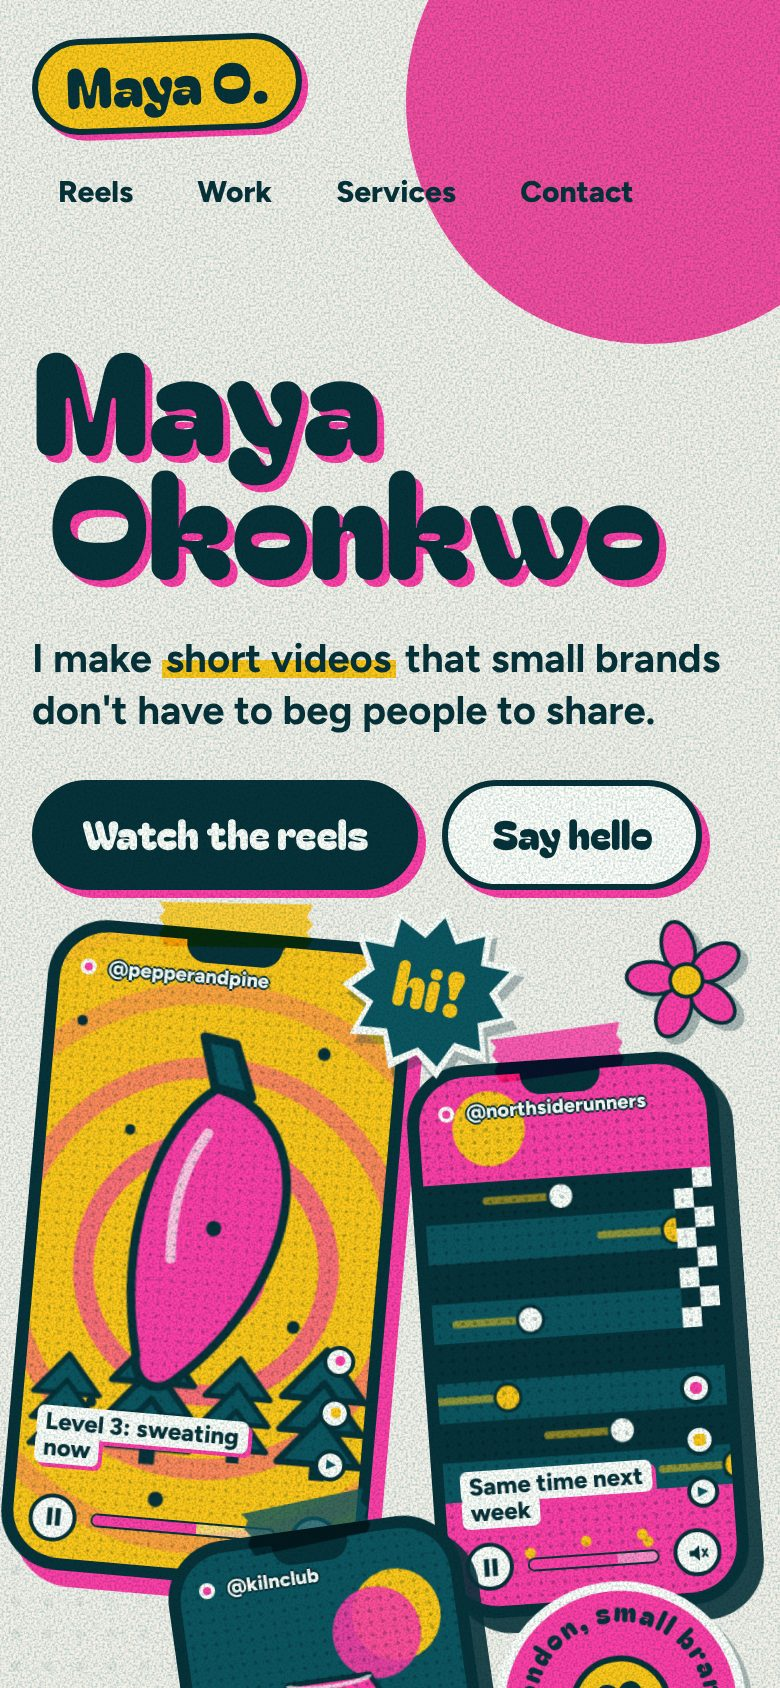
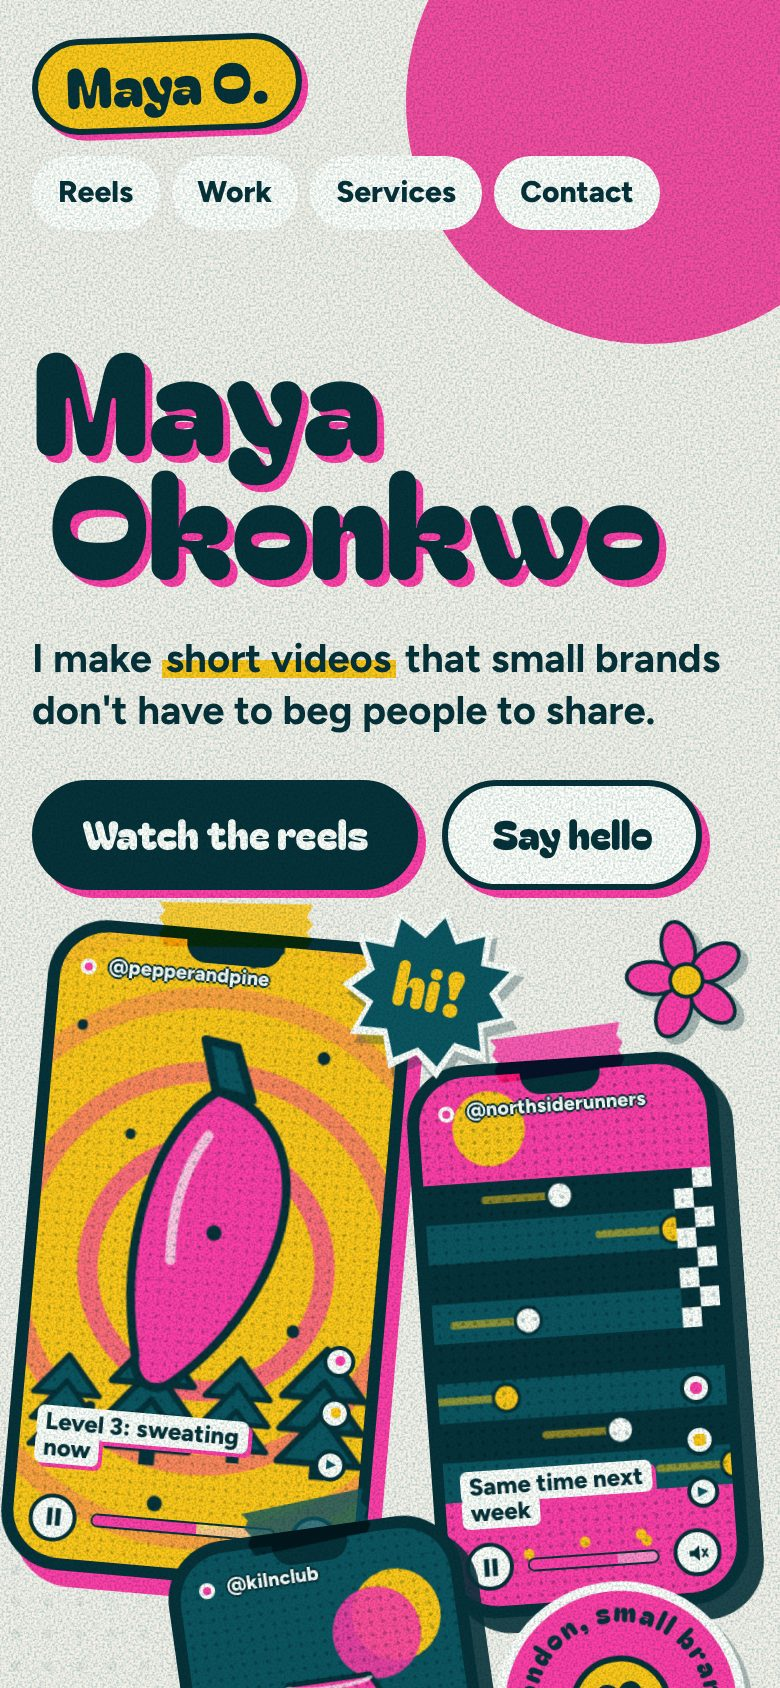
CI: cache the axe browser and retry installs; fix last CSP and contrast issues
- Checks workflow keeps Playwright's Chromium between runs (keyed by its version)
  and retries the browser and system-package installs once, after the install
  step failed on a slow download.
- BaseLayout's js-class script moves to src/scripts/inline/ and is hashed into
  the CSP like the contact intro's gate, so browsers no longer block it.
- Maya concept: nav links on cream pills and a deeper ink on the pink case
  cards, so the page passes colour contrast (0 axe violations). Poster re-shot.

diff --git a/site/public/concepts/maya/index.html b/site/public/concepts/maya/index.html
@@ -44,7 +44,7 @@ h1,h2,h3,h4,p{margin:0}
 .nav{display:flex;align-items:center;justify-content:space-between;gap:12px 24px;flex-wrap:wrap;padding-top:18px;position:relative;z-index:5}
 .logo{font-family:var(--display);font-size:28px;text-decoration:none;line-height:1;padding:6px 14px 8px;background:#FFC61A;border:3px solid #06323A;border-radius:99px;transform:rotate(-2deg);box-shadow:3px 3px 0 #FF3EA5}
 .nav ul{display:flex;gap:6px;list-style:none;margin:0;padding:0;flex-wrap:wrap}
-.nav ul a{display:block;text-decoration:none;font-weight:800;font-size:16px;padding:6px 14px;border-radius:99px;border:2px solid transparent}
+.nav ul a{display:block;text-decoration:none;font-weight:800;font-size:16px;padding:6px 14px;border-radius:99px;border:2px solid transparent;background:#FFFDF8}
 .nav ul a:hover{border-color:#06323A;background:#FFFDF8}
 
 /* ---------- hero ---------- */
@@ -158,9 +158,9 @@ section{position:relative}
 
 /* cases */
 .cases{display:grid;gap:clamp(40px,6vw,90px);margin-top:clamp(36px,5vw,70px)}
-.case{--bg:#FF3EA5;--fg:#06323A;--sh:#0B5560;position:relative;display:grid;grid-template-columns:5fr 7fr;gap:clamp(20px,4vw,64px);padding:clamp(22px,4vw,56px);background:var(--bg);color:var(--fg);border:4px solid #06323A;border-radius:34px 6px 34px 6px;box-shadow:12px 12px 0 var(--sh);scroll-margin-top:20px}
+.case{--bg:#FF3EA5;--fg:#04262C;--sh:#0B5560;position:relative;display:grid;grid-template-columns:5fr 7fr;gap:clamp(20px,4vw,64px);padding:clamp(22px,4vw,56px);background:var(--bg);color:var(--fg);border:4px solid #06323A;border-radius:34px 6px 34px 6px;box-shadow:12px 12px 0 var(--sh);scroll-margin-top:20px}
 .case:nth-child(odd){transform:rotate(-.5deg)}.case:nth-child(even){transform:rotate(.5deg)}
-.case.sun{--bg:#FFC61A;--sh:#FF3EA5}.case.teal{--bg:#0B5560;--fg:#FFFDF8;--sh:#FFC61A}
+.case.sun{--bg:#FFC61A;--fg:#06323A;--sh:#FF3EA5}.case.teal{--bg:#0B5560;--fg:#FFFDF8;--sh:#FFC61A}
 .wm{font-size:calc(var(--k,1) * clamp(40px,6vw,96px));line-height:.95;font-weight:400;overflow-wrap:anywhere}
 .case h3.what{font-family:var(--body);font-weight:800;font-size:clamp(18px,1.6vw,22px);line-height:1.25;margin-top:14px;max-width:26ch}
 .chips{display:flex;gap:8px;flex-wrap:wrap;margin-top:18px;list-style:none;padding:0;margin-bottom:0}
@@ -206,6 +206,7 @@ section{position:relative}
 .wm-bloom{font-family:"Gloock",serif}
 .wm-late{font-family:"Dela Gothic One",sans-serif}
 .brands .wm-pepper{color:#C4136F}
+.case:not(.sun):not(.teal) .wm-pepper{color:var(--fg)}
 
 /* contact */
 .contact{margin-top:clamp(80px,11vw,160px);background:#FFC61A;border-top:4px solid #06323A;padding-top:clamp(70px,9vw,130px);padding-bottom:clamp(90px,9vw,120px);overflow:hidden}

diff --git a/site/src/scripts/inline/js-class.js b/site/src/scripts/inline/js-class.js
@@ -1,0 +1,4 @@
+// Runs inline in every page's <head> (layouts/BaseLayout.astro), before first paint: marks the page
+// as running JavaScript so scroll reveals can start hidden without hiding content from no-JS visitors.
+// Its hash is added to the CSP in astro.config.mjs (inlineHash), since Astro doesn't hash is:inline.
+document.documentElement.classList.add('js');

diff --git a/CLAUDE.md b/CLAUDE.md
@@ -400,7 +400,7 @@ Lighthouse 97-100 / 100 / 100 / 100 on ten pages, axe 0 violations on 15. Motion
   answering" is a client service and stays.
 
 ## Concept portfolios (2026-11-02, branch `portfolio-concepts`)
-Three standalone concept sites (Noor Haddad, Theo Lindqvist, Maya Okonkwo) live in `site/public/concepts/<slug>/index.html` and are shown as cards on `/portfolio` (data in `src/data/portfolioConcepts.ts`, screenshots in `src/assets/portfolio-concepts/`). They are plain HTML copied as is, not Astro pages: fonts are self-hosted woff2 in `public/concepts/fonts/` (from `@fontsource`, not added to package.json) and GSAP 3.15.0 (gsap, ScrollTrigger, Draggable) is copied from `node_modules` into `public/concepts/vendor/`, all via relative paths so the `/Hu-Man` preview base works. Gotchas: Astro's meta CSP does not cover public files, so `public/_headers` has a `/concepts/*` rule that detaches the global CSP (`! Content-Security-Policy`) and sets one that allows their inline scripts and styles; the pages are `noindex,nofollow`, not in the sitemap and not in `llms-full.txt`, and `seo-check.mjs` checks them separately (noindex, no outside hosts, assets exist, back link); ESLint and Prettier skip `public/concepts`. Each page has a fixed badge with a back link to `../../portfolio/` (static at the foot on phones). Known axe finding left: the Maya nav links over the pink circle fail colour contrast. The home Portfolio section (`WorkCards.astro`) shows the real projects from `projects.ts`, not these concepts (Gurman, 2026-11-02: the concept version was reverted).
+Three standalone concept sites (Noor Haddad, Theo Lindqvist, Maya Okonkwo) live in `site/public/concepts/<slug>/index.html` and are shown as cards on `/portfolio` (data in `src/data/portfolioConcepts.ts`, screenshots in `src/assets/portfolio-concepts/`). They are plain HTML copied as is, not Astro pages: fonts are self-hosted woff2 in `public/concepts/fonts/` (from `@fontsource`, not added to package.json) and GSAP 3.15.0 (gsap, ScrollTrigger, Draggable) is copied from `node_modules` into `public/concepts/vendor/`, all via relative paths so the `/Hu-Man` preview base works. Gotchas: Astro's meta CSP does not cover public files, so `public/_headers` has a `/concepts/*` rule that detaches the global CSP (`! Content-Security-Policy`) and sets one that allows their inline scripts and styles; the pages are `noindex,nofollow`, not in the sitemap and not in `llms-full.txt`, and `seo-check.mjs` checks them separately (noindex, no outside hosts, assets exist, back link); ESLint and Prettier skip `public/concepts`. Each page has a fixed badge with a back link to `../../portfolio/` (static at the foot on phones). Maya's contrast failures were fixed 2026-11-20 (nav pills on cream, deeper ink on the pink cards). The home Portfolio section (`WorkCards.astro`) shows the real projects from `projects.ts`, not these concepts (Gurman, 2026-11-02: the concept version was reverted).
 
 ## Live concept wall (2026-11-07, branch `portfolio-gallery`)
 /portfolio now opens with the concept portfolios (sixteen since 9 Nov) on a dark live wall (`ConceptWall.astro`,
@@ -418,8 +418,7 @@ mechanics from Gurman's Awwwards references but never their layouts, art or word
    seo-check matches pages to that file.
 4. **Framing**: `frame-src 'self'` in the CSP; `/concepts/*` drops `X-Frame-Options: DENY` for
    `SAMEORIGIN` and `frame-ancestors 'self'` in `_headers`.
-5. Concept pages say "Concept" and "sample", never "fictional" (hard rule 1). Known axe finding left:
-   Maya's nav over the pink circle (pre-existing).
+5. Concept pages say "Concept" and "sample", never "fictional" (hard rule 1).
 6. **Revision 2 (same night, Gurman's notes):** Hannah is now a bookcase (each book = a workplace that
    opens into its history; for people with many employers), Sofia uses a real muapi cabin clip
    (`sofia/img/cabin.mp4`, kling-v3.0-pro from an imagen4-ultra frame) and an old-school terminal (split-flap
@@ -573,8 +572,7 @@ breaking into tiles that fall into black, 1.6 s of black, then the landing switc
 (`ContactIntro.astro`, `scripts/contact-intro.ts`). Things worth knowing:
 1. **`is:inline` scripts are not hashed into the CSP by Astro.** The intro's gate script lives in
    `src/scripts/inline/` and `astro.config.mjs` hashes that file (`inlineHash`); inline it verbatim with
-   `set:html`. BaseLayout's `.js` class script is blocked for this reason on every page (pre-existing,
-   harmless: reveals.ts adds the class).
+   `set:html`. BaseLayout's `.js` class script works the same way (`inline/js-class.js`, 2026-11-20).
 2. **Scripts that scroll or measure wait for `introDone()`** (`scripts/contact-intro-state.ts`): the
    landing video, Lenis (it scrolls by script, which `overflow: hidden` doesn't stop) and scroll-fx (its
    first pass was a 250 ms long task during the intro).
@@ -765,3 +763,10 @@ mean /about/#faq. Run tools as `./node_modules/.bin/astro` etc.: the `:` in "Hu:
   **Adding a page: add it to `run_worker_first`** (seo-check fails otherwise). Tested in `wrangler dev`.
 - Dashboard-only steps (docs/10-launch.md): switch the deploy command, turn Early Hints on, look at AI
   Crawl Control monthly.
+
+## CI browser cache, Maya contrast (2026-11-20, branch `security-hardening`)
+- **CI keeps Playwright's Chromium between runs** (`actions/cache`, keyed by the Playwright version in the
+  lock file) and tries each browser or system-package install twice, so one slow download doesn't fail the
+  run. The `npm ci` failure before it was a lock file written by an older npm: refresh the lock with the npm
+  that CI's Node ships (`npx npm@<version> install --package-lock-only`) if `npm ci` reports missing packages.
+- `npm run axe` and a scan of every concept page are now clean; Maya's ink on pink is `#04262C` (4.9:1).
